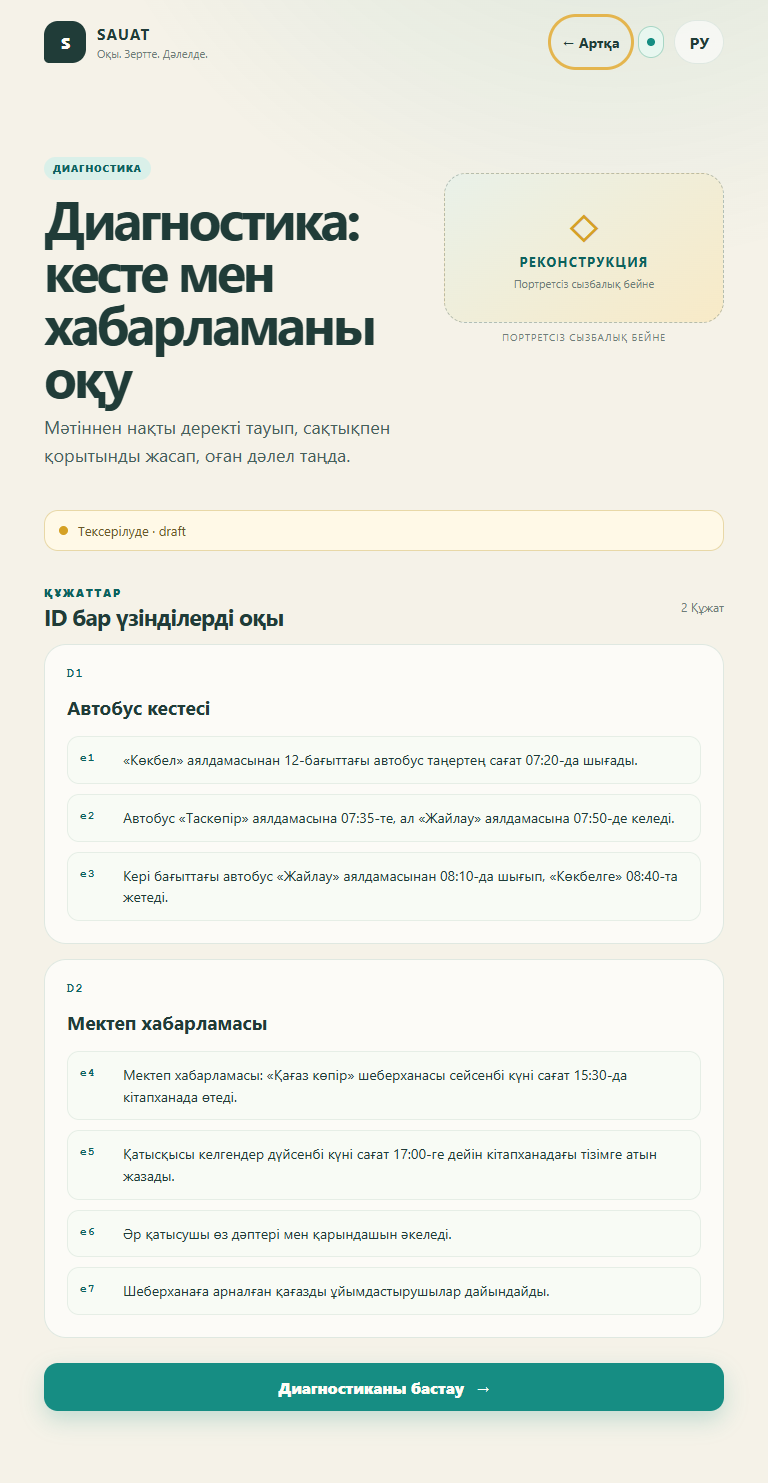
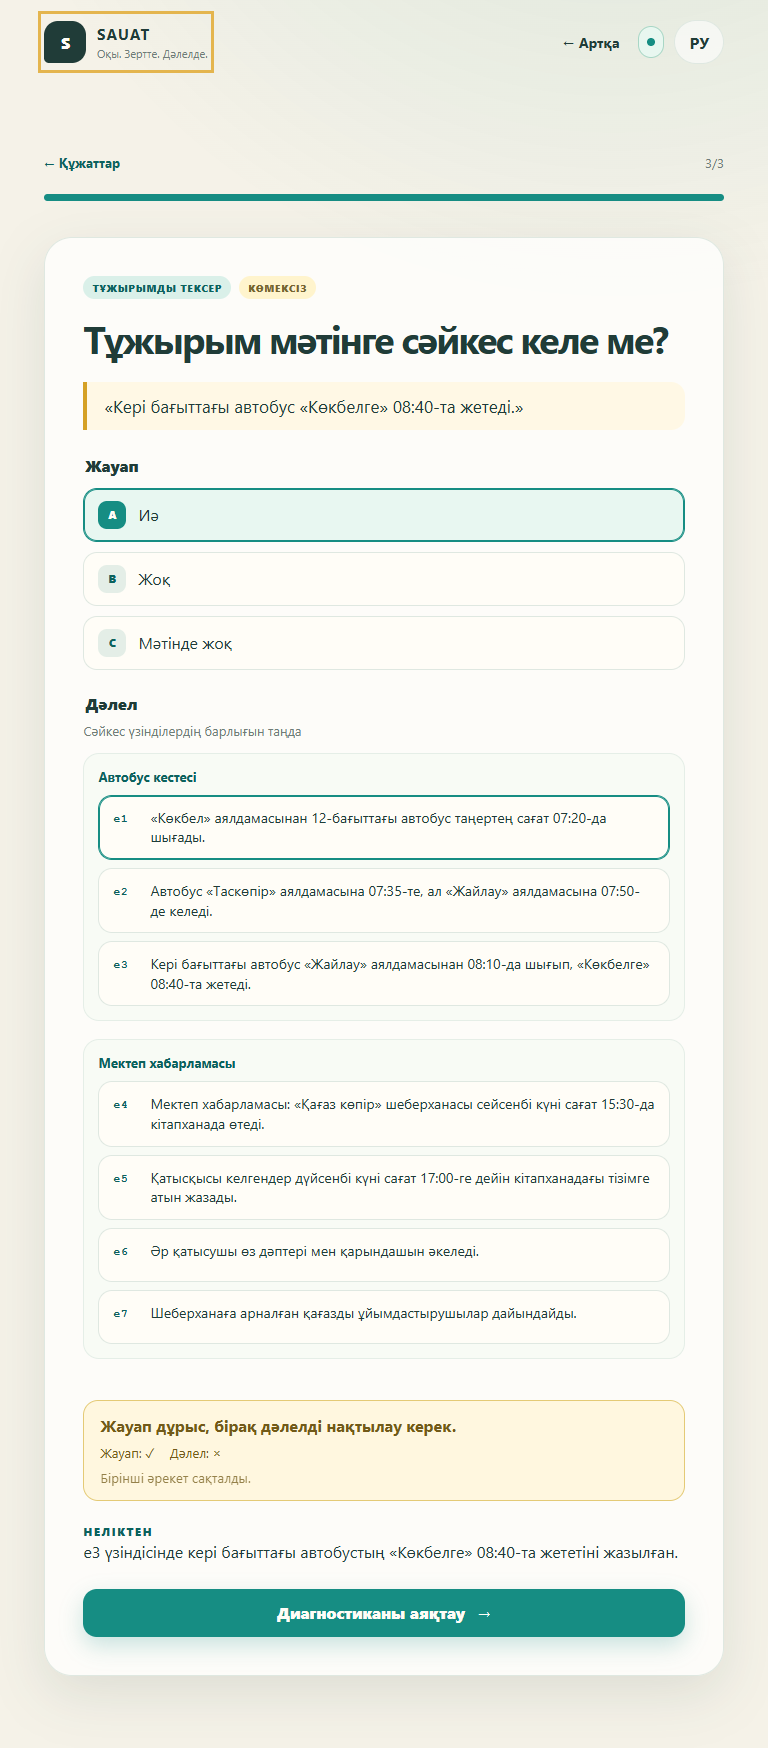
qa: complete night-shift evidence refresh

diff --git a/qa/run.js b/qa/run.js
@@ -133,7 +133,7 @@ function completePractice(session, persona, switchLanguage) {
 
 function runScenario({ lang, width, height, persona, switchLanguage = false }) {
   const session = `qa-${runStamp}-${lang}-${width}-${persona.replace(/[^a-z0-9-]/gi, '-')}`;
-  const result = { id: `${lang}-${width}-${persona}`, lang, viewport: `${width}x${height}`, persona, switchLanguage, status: 'PASS', evidence: [], errors: [] };
+  const result = { id: `${lang}-${width}-${persona}${switchLanguage ? '-switch' : ''}`, lang, viewport: `${width}x${height}`, persona, switchLanguage, status: 'PASS', evidence: [], errors: [] };
   try {
     fresh(session);
     code(session, `async page => { await page.evaluate(() => { localStorage.clear(); sessionStorage.clear(); }); await page.reload({ waitUntil: 'domcontentloaded' }); return true; }`);
@@ -160,7 +160,18 @@ function runDiagnostic({ lang, width, height }) {
   const result = { id: `diagnostic-${lang}-${width}`, lang, viewport: `${width}x${height}`, status: 'PASS', evidence: [], errors: [] };
   try {
     fresh(session);
-    selectLanguage(session, lang, width, height);
+    code(session, `async page => {
+      await page.setViewportSize({ width: ${width}, height: ${height} });
+      const label = ${JSON.stringify(lang === 'ru' ? 'РУ Русский' : 'ҚАЗ Қазақша')};
+      const language = page.getByRole('button', { name: label });
+      if (await language.count()) await language.click();
+      const start = page.getByRole('button', { name: /Начать маршрут|Бағытты бастау/ }).last();
+      if (await start.count()) await start.click();
+      const back = page.getByRole('button', { name: /Назад|Артқа/ }).first();
+      if (await back.count()) await back.click();
+      await page.waitForTimeout(300);
+      return true;
+    }`);
     result.export = code(session, `async page => {
       const button = page.getByRole("button", { name: /Экспорт результатов|Нәтижелерді экспорттау/ });
       const count = await button.count();
@@ -180,11 +191,61 @@ function runDiagnostic({ lang, width, height }) {
     }`);
     result.evidence.push({ stage: 'diagnostic-open', opened, audit: audit(session) });
     result.hintsHidden = opened.hintButtons === 0;
+    const begin = code(session, `async page => {
+      const button = page.getByRole('button', { name: /Начать диагностику|Диагностиканы бастау/ });
+      const count = await button.count();
+      if (count) await button.first().click();
+      return { count, started: count > 0 };
+    }`);
+    result.evidence.push({ stage: 'diagnostic-start', begin });
     result.tasks = completePractice(session, 'first', false).tasks;
     result.evidence.push({ stage: 'diagnostic-after', audit: audit(session) });
+    if (!result.hintsHidden || result.tasks.length < 3) {
+      result.status = 'FAIL';
+      result.errors.push(`Диагностика выполнена не полностью: tasks=${result.tasks.length}, hintsHidden=${result.hintsHidden}`);
+    }
     const shot = path.join(screenshotsDir, `diagnostic-${lang}-${width}.png`);
     code(session, `async page => { await page.screenshot({ path: ${JSON.stringify(shot)}, fullPage: true }); return ${JSON.stringify(shot)}; }`);
     result.screenshot = shot;
+  } catch (error) {
+    result.status = 'FAIL';
+    result.errors.push(String(error));
+  } finally {
+    cli(session, ['close']);
+  }
+  return result;
+}
+
+function runStoryAvailability({ lang, width, height }) {
+  const session = `qa-${runStamp}-story-availability-${lang}-${width}`;
+  const result = { id: `story-availability-${lang}-${width}`, lang, viewport: `${width}x${height}`, status: 'PASS', errors: [] };
+  try {
+    fresh(session);
+    code(session, `async page => {
+      await page.setViewportSize({ width: ${width}, height: ${height} });
+      const label = ${JSON.stringify(lang === 'ru' ? 'РУ Русский' : 'ҚАЗ Қазақша')};
+      const language = page.getByRole('button', { name: label });
+      if (await language.count()) await language.click();
+      const start = page.getByRole('button', { name: /Начать маршрут|Бағытты бастау/ }).last();
+      if (await start.count()) await start.click();
+      const back = page.getByRole('button', { name: /Назад|Артқа/ }).first();
+      if (await back.count()) await back.click();
+      await page.waitForTimeout(300);
+      return true;
+    }`);
+    result.check = code(session, `async page => {
+      const cards = await page.locator('article.adventure-node').evaluateAll((nodes) => nodes.map((node, index) => ({
+        id: String(index + 1).padStart(2, '0'),
+        locked: node.classList.contains('locked'),
+        hasOpenButton: Boolean(node.querySelector('button[data-action="open-story"]')),
+        text: (node.innerText || '').slice(0, 240)
+      })));
+      return { cards, lockedIds: cards.filter((card) => card.locked).map((card) => card.id) };
+    }`);
+    if (result.check.lockedIds.length) {
+      result.status = 'FAIL';
+      result.errors.push(`BUG-003: locked stories=${result.check.lockedIds.join(',')}`);
+    }
   } catch (error) {
     result.status = 'FAIL';
     result.errors.push(String(error));
@@ -327,7 +388,7 @@ const results = {
   baseUrl,
   synthetic: true,
   note: 'СИМУЛЯЦИЯ: браузерные персоны не являются реальными учениками.',
-  baseline: { validate: 'PASS (exit 0)', tests: 'PASS (56/56, exit 0)' },
+  baseline: { validate: 'PASS (exit 0)', tests: 'PASS (59/59, exit 0)' },
   scenarios: []
 };
 const maxScenarios = Number(process.env.QA_MAX_SCENARIOS || 0);
@@ -348,6 +409,7 @@ addScenario('ru-360-double-click', () => runScenario({ lang: 'ru', width: 360, h
 addScenario('ru-360-first-switch', () => runScenario({ lang: 'ru', width: 360, height: 800, persona: 'first', switchLanguage: true }));
 addScenario('diagnostic-ru-360', () => runDiagnostic({ lang: 'ru', width: 360, height: 800 }));
 addScenario('diagnostic-kk-768', () => runDiagnostic({ lang: 'kk', width: 768, height: 1024 }));
+addScenario('story-availability-ru-360', () => runStoryAvailability({ lang: 'ru', width: 360, height: 800 }));
 addScenario('tab-return-ru-360', () => runTabReturn({ lang: 'ru', width: 360, height: 800 }));
 addScenario('teacher-import-ru-360', () => runTeacherImport({ lang: 'ru', width: 360, height: 800 }));
 addScenario('offline-ru-360', () => runOffline({ lang: 'ru', width: 360, height: 800 }));

diff --git a/docs/sauat/reports/QA_NIGHT.md b/docs/sauat/reports/QA_NIGHT.md
@@ -11,19 +11,20 @@
 | attentive | 768×1024 | KK | PASS |
 | attentive | 1440×900 | KK | PASS |
 | random / hint-eater / double-click / language switch | 360×800 | RU | PASS |
-| diagnostic + hidden hints | 360×800 | RU | PASS |
-| diagnostic + hidden hints | 768×1024 | KK | PASS |
+| diagnostic: 3 tasks + hidden hints | 360×800 | RU | PASS |
+| diagnostic: 3 tasks + hidden hints | 768×1024 | KK | PASS |
+| story availability: cards 02/03 | 360×800 | RU | FAIL — BUG-003 |
 | tab close → return with progress | 360×800 | RU | PASS |
 | export → teacher import → metric check | 360×800 | RU | PASS |
 | offline reload and continue | 360×800 | RU | FAIL — BUG-001 |
 
-Итого актуального W1-прогона: 15 сценариев, 14 PASS, 1 FAIL. Горизонтальная прокрутка не обнаружена; фокус виден; изображения имели `complete=true` и `naturalWidth>0` в проверенных экранах. Найдены интерактивные цели меньше 44 px — BUG-002. Карточки Арал/Байконур закрыты — BUG-003. Кабинет принял `saulat-events.json`: 3 события, метрика `0/3`; возврат после закрытия вкладки сохранил IndexedDB history `1 → 1`.
+Итого актуального W1-прогона: 16 сценариев, 14 PASS, 2 FAIL. Горизонтальная прокрутка не обнаружена; фокус виден; изображения имели `complete=true` и `naturalWidth>0` в проверенных экранах. Найдены интерактивные цели меньше 44 px — BUG-002. Отдельная проверка доступности историй подтвердила, что карточки 02/03 закрыты — BUG-003. Диагностика реально прошла по 3 задания в RU и KK; подсказки скрыты. Кабинет принял `saulat-events.json`: 3 события, метрика `0/3`; возврат после закрытия вкладки сохранил IndexedDB history `1 → 1`.
 
 Команды и exit code:
 
 - `npm run validate` в копии с `INCLUDE_DRAFT=1` — exit 0; контент валиден, эвристические предупреждения о длине правильных вариантов остаются.
 - `npm test` в копии — exit 0; 59/59 тестов.
-- `node qa/run.js` из свежей копии `qa/.tmp/app-w5` при сервере `PORT=3400`, `INCLUDE_DRAFT=1` — exit 0; итог 14/15 PASS.
+- `node qa/run.js` из свежей копии `qa/.tmp/app-w5` при сервере `PORT=3400`, `INCLUDE_DRAFT=1` — exit 0; итог 14/16 PASS.
 
 Не сделано: offline reload всё ещё не восстановил shell/story (BUG-001); истории 02/03 остаются заблокированными (BUG-003). Не проверены ученический пилот, человек-проверка KK и живой Ollama.
 

diff --git a/docs/sauat/reports/NIGHT_SUMMARY.md b/docs/sauat/reports/NIGHT_SUMMARY.md
@@ -4,7 +4,7 @@
 
 | Воркстрим | Статус | Evidence |
 |---|---|---|
-| W1 QA ученики | DONE с блокерами | актуальный `qa/run.js`/`QA_NIGHT.md`, 15 сценариев: 14 PASS / 1 FAIL; tab-return и teacher-import PASS |
+| W1 QA ученики | DONE с блокерами | актуальный `qa/run.js`/`QA_NIGHT.md`, 16 сценариев: 14 PASS / 2 FAIL; диагностика 3/3 задач, tab-return и teacher-import PASS |
 | W2 content drafts | DONE как черновики | `content_drafts/`, `CONTENT_DRAFTS.md`, 5 пакетов / 20 заданий; в `content/` не копировались |
 | W3 фактчек | DONE с ручными follow-up | `FACTS_case_001/002/003.md`; 28/31 сегментов подтверждены, 3 частично/не полностью доступны, противоречий P0/P1 не найдено |
 | W4 KK lint | DONE как статический аудит | `tools/qa/kk_lint.js`, `KK_LINT.md`, 6 мест для проверки человеком |
